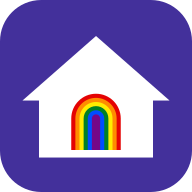
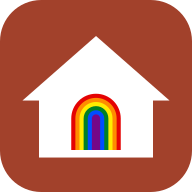
Warmer colour palette
Claude-Session: https://claude.ai/code/session_01EiJG5MkLZouA3gmDeuW8dy

diff --git a/index.html b/index.html
@@ -2,7 +2,7 @@
 <html lang="en"><head><meta charset="utf-8">
 <meta name="viewport" content="width=device-width,initial-scale=1,viewport-fit=cover">
 <title>HomeConnect Canada</title>
-<meta name="theme-color" content="#43309B">
+<meta name="theme-color" content="#A2412B">
 <meta name="apple-mobile-web-app-capable" content="yes">
 <meta name="apple-mobile-web-app-title" content="HomeConnect">
 <link rel="manifest" href="manifest.webmanifest">
@@ -15,21 +15,21 @@
 /* Layout: one centered column. Person app has a bottom tab bar; organization and admin consoles have top tabs.
    Palette: harbour ink, sea-glass teal accent, cool paper neutrals; status colours are separate. */
 :root {
-  --bg:#F5F3F9; --surface:#FFFFFF; --ink:#1B1840; --muted:#5B5778; --line:#DAD6E8;
-  --accent:#43309B; --accent-ink:#FFFFFF; --accent-soft:#E8E4F7;
-  --ok:#1E7A46; --warn:#9A5A05; --crit:#B3261E; --band:#1B1840; --band-ink:#EDEAF8; --band-accent:#F5A9B8;
+  --bg:#FAF7F1; --surface:#FFFFFF; --ink:#2B2621; --muted:#6B6157; --line:#E3DACB;
+  --accent:#A2412B; --accent-ink:#FFFFFF; --accent-soft:#F3E2D9;
+  --ok:#1E7A46; --warn:#9A5A05; --crit:#B3261E; --band:#2B2621; --band-ink:#F4EEE4; --band-accent:#F0B35B;
   --display:"Bricolage Grotesque","Segoe UI",system-ui,sans-serif;
   --body:"Public Sans","Segoe UI",system-ui,sans-serif;
   --mono:"IBM Plex Mono",ui-monospace,Menlo,monospace;
 }
 @media (prefers-color-scheme: dark) { :root:not([data-theme="light"]) {
-  --bg:#110F24; --surface:#1B1938; --ink:#EDEAF8; --muted:#A9A5C6; --line:#2F2B55;
-  --accent:#B7A8FF; --accent-ink:#14102E; --accent-soft:#2A2559;
-  --ok:#5FCB8A; --warn:#E8A951; --crit:#F08A82; --band:#0C0B1C; --band-ink:#EDEAF8; --band-accent:#B7A8FF; color-scheme:dark; } }
+  --bg:#1A1612; --surface:#241E19; --ink:#F4EEE4; --muted:#B3A798; --line:#3A3027;
+  --accent:#E58A6E; --accent-ink:#1F120C; --accent-soft:#3A2820;
+  --ok:#5FCB8A; --warn:#E8A951; --crit:#F08A82; --band:#120F0C; --band-ink:#F4EEE4; --band-accent:#E58A6E; color-scheme:dark; } }
 :root[data-theme="dark"] {
-  --bg:#110F24; --surface:#1B1938; --ink:#EDEAF8; --muted:#A9A5C6; --line:#2F2B55;
-  --accent:#B7A8FF; --accent-ink:#14102E; --accent-soft:#2A2559;
-  --ok:#5FCB8A; --warn:#E8A951; --crit:#F08A82; --band:#0C0B1C; --band-ink:#EDEAF8; --band-accent:#B7A8FF; color-scheme:dark; }
+  --bg:#1A1612; --surface:#241E19; --ink:#F4EEE4; --muted:#B3A798; --line:#3A3027;
+  --accent:#E58A6E; --accent-ink:#1F120C; --accent-soft:#3A2820;
+  --ok:#5FCB8A; --warn:#E8A951; --crit:#F08A82; --band:#120F0C; --band-ink:#F4EEE4; --band-accent:#E58A6E; color-scheme:dark; }
 
 * { box-sizing:border-box; }
 html { padding-top:env(safe-area-inset-top,0px); }
@@ -1027,7 +1027,7 @@ details > summary { cursor:pointer; font-weight:600; } details + details { borde
     else if (r === 'org' && myOrg()) who = myOrg().name;
     else if (a) who = a.name;
     var pill = shared ? '<span class="pill ok">Shared test</span>' : '<span class="pill idle">This device only</span>';
-    $('#top').innerHTML = '<div class="brand"><div class="logo"><svg viewBox="0 0 512 512" role="img" aria-label="HomeConnect"><rect width="512" height="512" rx="110" fill="#43309B"/><path d="M256 96L452 268H408V420H104V268H60Z" fill="#fff"/><path d="M190 400V316 A66 66 0 0 1 322 316 V400Z" fill="#E40303"/><path d="M201 400V316 A55 55 0 0 1 311 316 V400Z" fill="#FF8C00"/><path d="M212 400V316 A44 44 0 0 1 300 316 V400Z" fill="#FFED00"/><path d="M223 400V316 A33 33 0 0 1 289 316 V400Z" fill="#008026"/><path d="M234 400V316 A22 22 0 0 1 278 316 V400Z" fill="#004DFF"/><path d="M245 400V316 A11 11 0 0 1 267 316 V400Z" fill="#750787"/></svg></div><b>HomeConnect Canada</b></div>' +
+    $('#top').innerHTML = '<div class="brand"><div class="logo"><svg viewBox="0 0 512 512" role="img" aria-label="HomeConnect"><rect width="512" height="512" rx="110" fill="#A2412B"/><path d="M256 96L452 268H408V420H104V268H60Z" fill="#fff"/><path d="M190 400V316 A66 66 0 0 1 322 316 V400Z" fill="#E40303"/><path d="M201 400V316 A55 55 0 0 1 311 316 V400Z" fill="#FF8C00"/><path d="M212 400V316 A44 44 0 0 1 300 316 V400Z" fill="#FFED00"/><path d="M223 400V316 A33 33 0 0 1 289 316 V400Z" fill="#008026"/><path d="M234 400V316 A22 22 0 0 1 278 316 V400Z" fill="#004DFF"/><path d="M245 400V316 A11 11 0 0 1 267 316 V400Z" fill="#750787"/></svg></div><b>HomeConnect Canada</b></div>' +
       '<div class="modebar">' + (STANDALONE ? '' : pill) + '<button class="btn ghost sm" data-act="togglelang" lang="' + (isFr() ? 'en' : 'fr') + '" aria-label="' + (isFr() ? 'Switch to English' : 'Passer au français') + '">' + (isFr() ? 'EN' : 'FR') + '</button><button class="btn ghost sm" data-act="lg" aria-pressed="' + !!ui.lg + '" aria-label="Larger text">Aa</button>' + (r ? '<span class="small muted">' + esc(who) + '</span><button class="btn ghost sm" data-act="signout">Sign out</button>' : (R.screen !== 'welcome' ? '<button class="btn ghost sm" data-act="home">← Start over</button>' : '')) + '</div><div class="pride" aria-hidden="true"></div>';
   }
   function tabbar() {

diff --git a/sw.js b/sw.js
@@ -1,4 +1,4 @@
-const C='homeconnect-v8',F=['./','index.html','manifest.webmanifest','icon.svg','icon-192.png','icon-512.png'];
+const C='homeconnect-v9',F=['./','index.html','manifest.webmanifest','icon.svg','icon-192.png','icon-512.png'];
 self.addEventListener('install',e=>{e.waitUntil(caches.open(C).then(c=>c.addAll(F)));self.skipWaiting();});
 self.addEventListener('activate',e=>{e.waitUntil(caches.keys().then(k=>Promise.all(k.filter(x=>x!==C).map(x=>caches.delete(x)))));self.clients.claim();});
 self.addEventListener('fetch',e=>{if(e.request.method!=='GET')return;e.respondWith(fetch(e.request).then(r=>{if(new URL(e.request.url).origin===location.origin){const c=r.clone();caches.open(C).then(x=>x.put(e.request,c));}return r;}).catch(()=>caches.match(e.request).then(m=>m||caches.match('index.html'))));});
